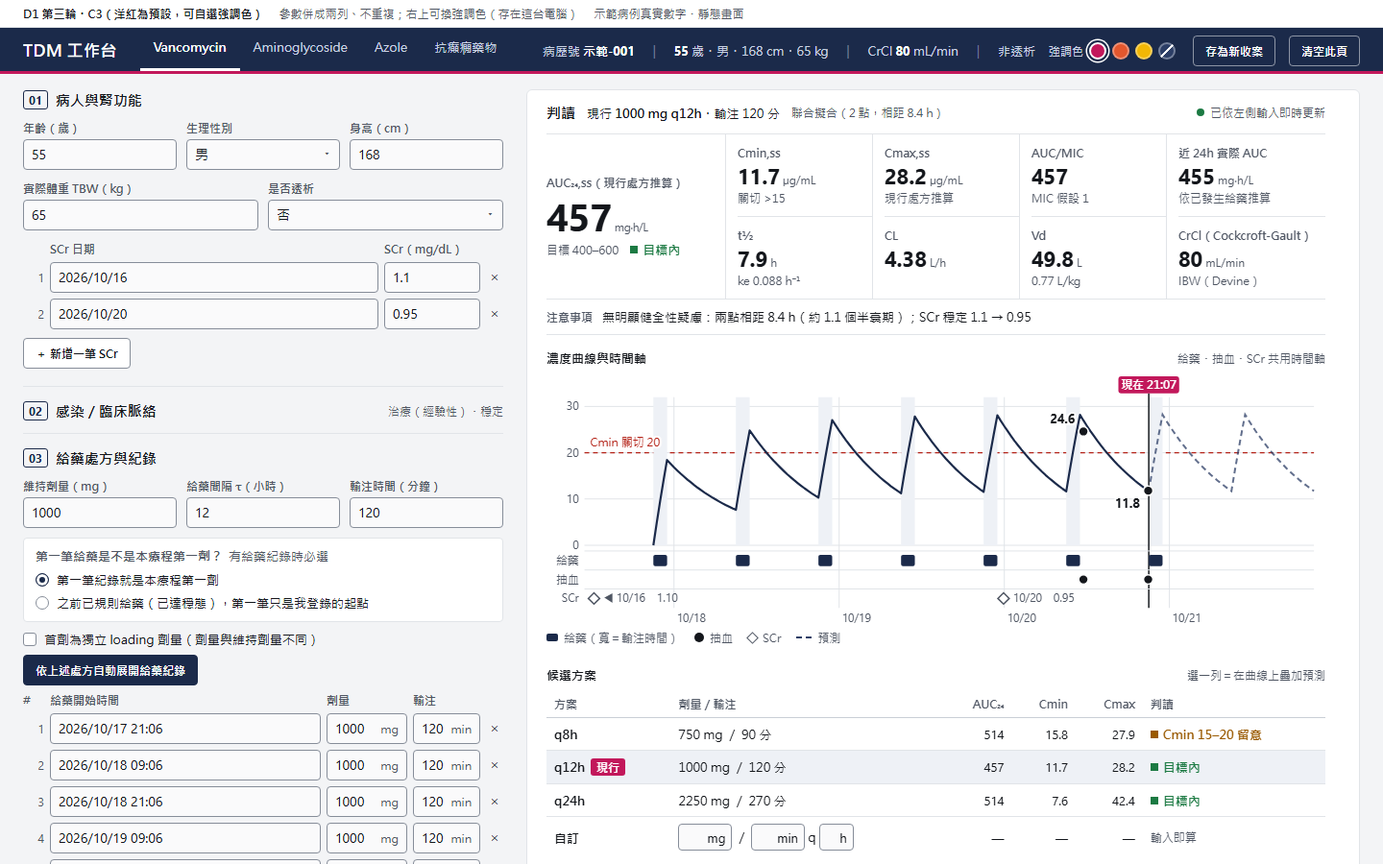
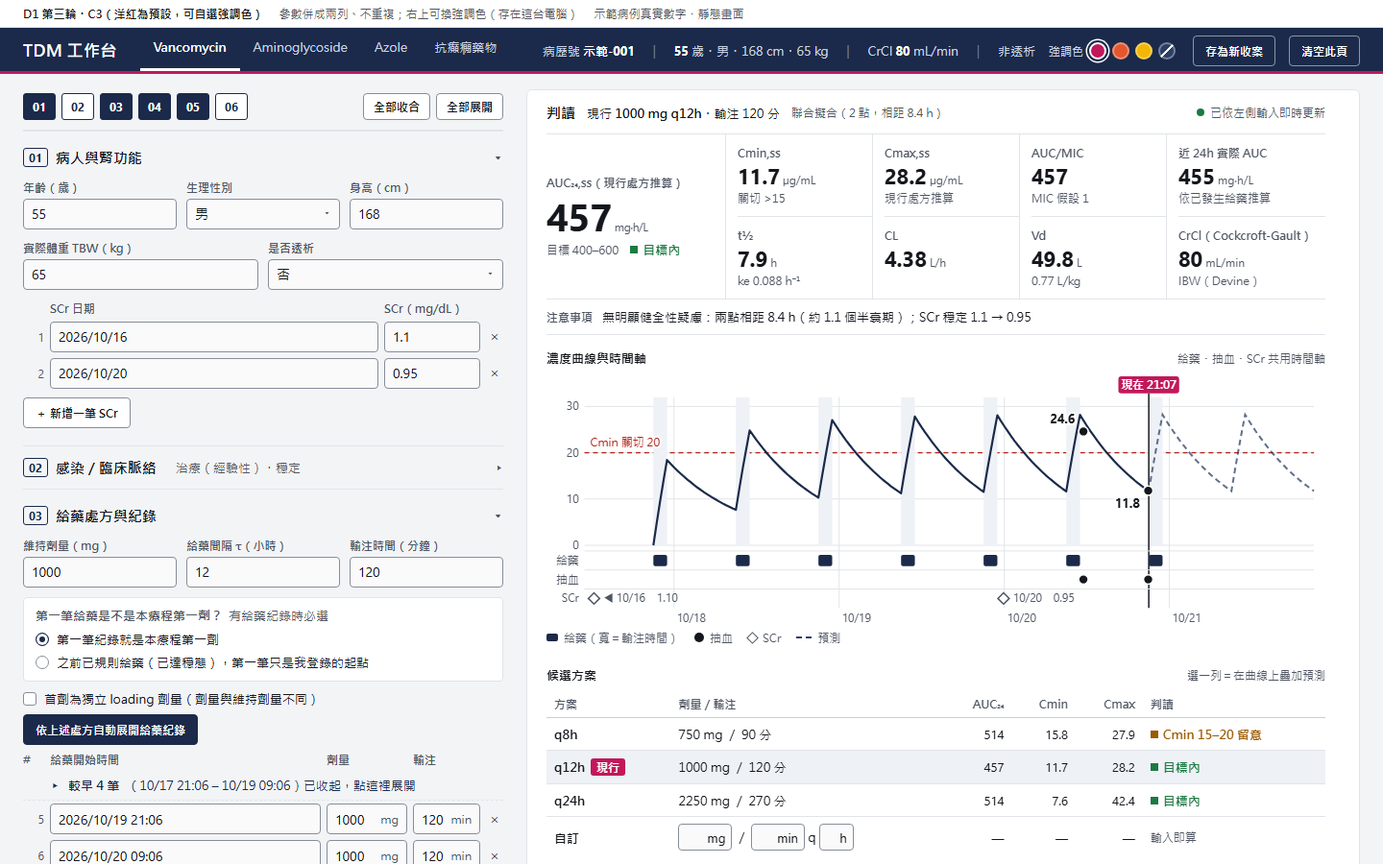
REDESIGN D1 第三輪：C3 左欄可收合（段落摘要、段落列、較早給藥收起）
- 每段收起時標題列顯示摘要；左欄頂端 01-06 跳轉與全部收合／展開
- 給藥紀錄只顯示最近 3 筆，較早的收成一行
- DESIGN.md 補上收合規則與施工對照
- 沒有修改 index.html

diff --git a/docs/direction/C3.html b/docs/direction/C3.html
@@ -217,39 +217,63 @@ p.tx{font-size:13px;margin-bottom:6px}
   .pgrid .key{grid-row:auto;grid-column:1/-1;border-top:0}
   .pgrid .key .v{font-size:34px}
 }
+
+.ws-bar{position:sticky;top:51px;z-index:5;background:var(--bg);display:flex;align-items:center;gap:6px;padding:8px 0 10px;margin-top:-4px;border-bottom:1px solid var(--line)}
+.ws-bar .jump{font-family:var(--font-num);font-size:12px;font-weight:700;min-width:34px;height:28px;border:1.5px solid var(--navy);border-radius:3px;background:#fff;color:var(--navy);cursor:pointer}
+.ws-bar .jump.open{background:var(--navy);color:#fff}
+.ws-bar .sp{flex:1}
+.ws-bar .btn{min-height:28px;padding:3px 10px}
+.ws-sec h2{margin-bottom:0}
+.ws-tg{all:unset;box-sizing:border-box;display:flex;align-items:center;gap:8px;width:100%;cursor:pointer;font-size:15px;font-weight:700;padding:2px 0}
+.ws-tg:focus-visible{outline:2px solid var(--navy);outline-offset:2px}
+.ws-tg .sum{margin-left:12px;font-size:13px;font-weight:400;color:var(--ink-soft);white-space:nowrap;overflow:hidden;text-overflow:ellipsis;flex:1;min-width:0;display:none}
+.ws-tg .chev{margin-left:auto;color:var(--ink-soft);font-size:12px;transition:transform 180ms ease}
+.ws-sec.closed .ws-tg .sum{display:block}
+.ws-sec.closed .ws-tg .chev{transform:rotate(-90deg)}
+.ws-sec.closed .ws-body{display:none}
+.ws-sec.closed{padding:9px 0}
+.ws-body{padding-top:8px}
+.ws-sec.flash{animation:flash 1.2s ease}
+@keyframes flash{0%{background:var(--navy-tint)}100%{background:transparent}}
+.older{display:flex;align-items:center;gap:8px;font-size:13px;color:var(--navy);padding:6px 0 6px 28px;cursor:pointer;border-bottom:1px dashed var(--line)}
+.older b{font-weight:700}
+.dose-old{display:none}
+.show-old .dose-old{display:grid}
+.show-old .older{display:none}
+@media (prefers-reduced-motion:reduce){.ws-tg .chev{transition:none}.ws-sec.flash{animation:none}}
+@media (max-width:640px){.ws-bar{top:0}}
 </style></head><body><div class="cap"><b>D1 第三輪・C3（洋紅為預設，可自選強調色）</b><span>參數併成兩列、不重複；右上可換強調色（存在這台電腦）</span><span>示範病例真實數字・靜態畫面</span></div><header class="top-bar"><h1>TDM 工作台</h1><nav class="tabs" aria-label="藥物模組"><a class="on" href="#">Vancomycin</a><a href="#">Aminoglycoside</a><a href="#">Azole</a><a href="#">抗癲癇藥物</a></nav>
-<div class="id"><span>病歷號 <b class="num">示範-001</b></span><span class="sep">｜</span><span><b class="num">55</b> 歲・男・168 cm・65 kg</span><span class="sep">｜</span><span>CrCl <b class="num">80</b> mL/min</span><span class="sep">｜</span><span>非透析</span><div class="acc-pick" role="group" aria-label="強調色"><span>強調色</span><button type="button" class="" data-v="magenta" style="--sw:#C2185B" title="洋紅" aria-label="強調色：洋紅" aria-pressed="true"></button><button type="button" class="" data-v="vermilion" style="--sw:#E4572E" title="朱紅" aria-label="強調色：朱紅" aria-pressed="false"></button><button type="button" class="" data-v="mustard" style="--sw:#F2B705" title="芥末黃" aria-label="強調色：芥末黃" aria-pressed="false"></button><button type="button" class="none" data-v="none" style="--sw:#C9D2E3" title="不用撞色" aria-label="強調色：不用撞色" aria-pressed="false"></button></div><button class="btn">存為新收案</button><button class="btn">清空此頁</button></div></header><div class="seg" role="group" aria-label="輸入或結果"><button data-v="in" aria-pressed="false">輸入</button><button data-v="out" aria-pressed="true">結果</button></div><main class="app"><div class="left">
-<section class="ws-sec"><h2><span class="idx">01</span>病人與腎功能</h2>
+<div class="id"><span>病歷號 <b class="num">示範-001</b></span><span class="sep">｜</span><span><b class="num">55</b> 歲・男・168 cm・65 kg</span><span class="sep">｜</span><span>CrCl <b class="num">80</b> mL/min</span><span class="sep">｜</span><span>非透析</span><div class="acc-pick" role="group" aria-label="強調色"><span>強調色</span><button type="button" class="" data-v="magenta" style="--sw:#C2185B" title="洋紅" aria-label="強調色：洋紅" aria-pressed="true"></button><button type="button" class="" data-v="vermilion" style="--sw:#E4572E" title="朱紅" aria-label="強調色：朱紅" aria-pressed="false"></button><button type="button" class="" data-v="mustard" style="--sw:#F2B705" title="芥末黃" aria-label="強調色：芥末黃" aria-pressed="false"></button><button type="button" class="none" data-v="none" style="--sw:#C9D2E3" title="不用撞色" aria-label="強調色：不用撞色" aria-pressed="false"></button></div><button class="btn">存為新收案</button><button class="btn">清空此頁</button></div></header><div class="seg" role="group" aria-label="輸入或結果"><button data-v="in" aria-pressed="false">輸入</button><button data-v="out" aria-pressed="true">結果</button></div><main class="app"><div class="left"><div class="ws-bar" role="toolbar" aria-label="段落"><button type="button" class="jump open" data-s="01" title="只展開 01 並跳過去">01</button><button type="button" class="jump" data-s="02" title="只展開 02 並跳過去">02</button><button type="button" class="jump open" data-s="03" title="只展開 03 並跳過去">03</button><button type="button" class="jump open" data-s="04" title="只展開 04 並跳過去">04</button><button type="button" class="jump open" data-s="05" title="只展開 05 並跳過去">05</button><button type="button" class="jump" data-s="06" title="只展開 06 並跳過去">06</button><span class="sp"></span><button type="button" class="btn" data-all="close">全部收合</button><button type="button" class="btn" data-all="open">全部展開</button></div><section class="ws-sec" data-s="01"><h2><button type="button" class="ws-tg" aria-expanded="true"><span class="idx">01</span>病人與腎功能<span class="sum">55 歲・男・168 cm・65 kg・非透析・SCr 0.95（10/20）</span><span class="chev" aria-hidden="true">▾</span></button></h2><div class="ws-body">
   <div class="grid g3"><div class="fld"><label>年齡（歲）</label><div class="inp">55</div></div><div class="fld"><label>生理性別</label><div class="inp sel">男</div></div><div class="fld"><label>身高（cm）</label><div class="inp">168</div></div></div>
   <div class="grid g2"><div class="fld"><label>實際體重 TBW（kg）</label><div class="inp">65</div></div><div class="fld"><label>是否透析</label><div class="inp sel">否</div></div></div>
   <div class="thead s"><span></span><span>SCr 日期</span><span>SCr（mg/dL）</span><span></span></div>
   <div class="row s"><span class="n">1</span><div class="inp">2026/10/16</div><div class="inp">1.1</div><span class="x">×</span></div>
   <div class="row s"><span class="n">2</span><div class="inp">2026/10/20</div><div class="inp">0.95</div><span class="x">×</span></div>
   <div class="btn-row"><button class="btn">＋ 新增一筆 SCr</button></div>
-</section>
-<section class="ws-sec collapsed"><h2><span class="idx">02</span>感染／臨床脈絡<span class="sum">治療（經驗性）・穩定</span></h2></section>
-<section class="ws-sec"><h2><span class="idx">03</span>給藥處方與紀錄</h2>
+</div></section>
+<section class="ws-sec closed" data-s="02"><h2><button type="button" class="ws-tg" aria-expanded="false"><span class="idx">02</span>感染／臨床脈絡<span class="sum">治療（經驗性）・穩定</span><span class="chev" aria-hidden="true">▾</span></button></h2><div class="ws-body"><div class="grid g2"><div class="fld"><label>適應症</label><div class="inp sel">治療（經驗性）</div></div><div class="fld"><label>嚴重度</label><div class="inp sel">穩定</div></div></div>
+<div class="grid g2"><div class="fld"><label>感染部位</label><div class="inp" style="color:var(--ink-soft)">如：菌血症、肺炎…</div></div><div class="fld"><label>菌種／MIC</label><div class="inp" style="color:var(--ink-soft)">如：MRSA</div></div></div></div></section>
+<section class="ws-sec" data-s="03"><h2><button type="button" class="ws-tg" aria-expanded="true"><span class="idx">03</span>給藥處方與紀錄<span class="sum">1000 mg q12h・輸注 120 分・給藥 7 筆（最後 10/20 21:06）</span><span class="chev" aria-hidden="true">▾</span></button></h2><div class="ws-body">
   <div class="grid g3"><div class="fld"><label>維持劑量（mg）</label><div class="inp">1000</div></div><div class="fld"><label>給藥間隔 τ（小時）</label><div class="inp">12</div></div><div class="fld"><label>輸注時間（分鐘）</label><div class="inp">120</div></div></div>
   <div class="radio-grp"><div class="t">第一筆給藥是不是本療程第一劑？<span>有給藥紀錄時必選</span></div>
     <label><i class="on"></i>第一筆紀錄就是本療程第一劑</label><label><i></i>之前已規則給藥（已達穩態），第一筆只是我登錄的起點</label></div>
   <div class="chk" style="margin:6px 0"><i></i>首劑為獨立 loading 劑量（劑量與維持劑量不同）</div>
   <div class="btn-row"><button class="btn primary">依上述處方自動展開給藥紀錄</button></div>
   <div class="thead"><span>#</span><span>給藥開始時間</span><span>劑量</span><span>輸注</span><span></span></div>
-  <div class="row"><span class="n">1</span><div class="inp">2026/10/17 21:06</div><div class="inp">1000<span class="u">mg</span></div><div class="inp">120<span class="u">min</span></div><span class="x">×</span></div><div class="row"><span class="n">2</span><div class="inp">2026/10/18 09:06</div><div class="inp">1000<span class="u">mg</span></div><div class="inp">120<span class="u">min</span></div><span class="x">×</span></div><div class="row"><span class="n">3</span><div class="inp">2026/10/18 21:06</div><div class="inp">1000<span class="u">mg</span></div><div class="inp">120<span class="u">min</span></div><span class="x">×</span></div><div class="row"><span class="n">4</span><div class="inp">2026/10/19 09:06</div><div class="inp">1000<span class="u">mg</span></div><div class="inp">120<span class="u">min</span></div><span class="x">×</span></div><div class="row"><span class="n">5</span><div class="inp">2026/10/19 21:06</div><div class="inp">1000<span class="u">mg</span></div><div class="inp">120<span class="u">min</span></div><span class="x">×</span></div><div class="row"><span class="n">6</span><div class="inp">2026/10/20 09:06</div><div class="inp">1000<span class="u">mg</span></div><div class="inp">120<span class="u">min</span></div><span class="x">×</span></div><div class="row"><span class="n">7</span><div class="inp live">2026/10/20 21:06</div><div class="inp">1000<span class="u">mg</span></div><div class="inp">120<span class="u">min</span></div><span class="x">×</span></div>
-</section>
-<section class="ws-sec"><h2><span class="idx">04</span>血中濃度量測（自由時點）</h2>
+  <div class="row dose-old"><span class="n">1</span><div class="inp">2026/10/17 21:06</div><div class="inp">1000<span class="u">mg</span></div><div class="inp">120<span class="u">min</span></div><span class="x">×</span></div><div class="row dose-old"><span class="n">2</span><div class="inp">2026/10/18 09:06</div><div class="inp">1000<span class="u">mg</span></div><div class="inp">120<span class="u">min</span></div><span class="x">×</span></div><div class="row dose-old"><span class="n">3</span><div class="inp">2026/10/18 21:06</div><div class="inp">1000<span class="u">mg</span></div><div class="inp">120<span class="u">min</span></div><span class="x">×</span></div><div class="row dose-old"><span class="n">4</span><div class="inp">2026/10/19 09:06</div><div class="inp">1000<span class="u">mg</span></div><div class="inp">120<span class="u">min</span></div><span class="x">×</span></div><div class="older" role="button" tabindex="0">▸ <b>較早 4 筆</b>（10/17 21:06 – 10/19 09:06）已收起，點這裡展開</div><div class="row"><span class="n">5</span><div class="inp">2026/10/19 21:06</div><div class="inp">1000<span class="u">mg</span></div><div class="inp">120<span class="u">min</span></div><span class="x">×</span></div><div class="row"><span class="n">6</span><div class="inp">2026/10/20 09:06</div><div class="inp">1000<span class="u">mg</span></div><div class="inp">120<span class="u">min</span></div><span class="x">×</span></div><div class="row"><span class="n">7</span><div class="inp live">2026/10/20 21:06</div><div class="inp">1000<span class="u">mg</span></div><div class="inp">120<span class="u">min</span></div><span class="x">×</span></div>
+</div></section>
+<section class="ws-sec" data-s="04"><h2><button type="button" class="ws-tg" aria-expanded="true"><span class="idx">04</span>血中濃度量測（自由時點）<span class="sum">2 筆：24.6（10/20 12:36）、11.8（10/20 21:01）</span><span class="chev" aria-hidden="true">▾</span></button></h2><div class="ws-body">
   <div class="thead s"><span>#</span><span>抽血時間</span><span>濃度</span><span></span></div>
   <div class="row s"><span class="n">1</span><div class="inp">2026/10/20 12:36</div><div class="inp">24.6<span class="u">µg/mL</span></div><span class="x">×</span></div>
   <div class="note">第 6 劑輸注結束後 1.5 小時（peak 附近）</div>
   <div class="row s"><span class="n">2</span><div class="inp">2026/10/20 21:01</div><div class="inp">11.8<span class="u">µg/mL</span></div><span class="x">×</span></div>
   <div class="note">第 7 劑給藥前 5 分鐘（trough）</div>
-</section>
-<section class="ws-sec"><h2><span class="idx">05</span>目標與情境設定</h2>
+</div></section>
+<section class="ws-sec" data-s="05"><h2><button type="button" class="ws-tg" aria-expanded="true"><span class="idx">05</span>目標與情境設定<span class="sum">MIC 1・目標 AUC₂₄ 500・候選 q8h／q12h／q24h</span><span class="chev" aria-hidden="true">▾</span></button></h2><div class="ws-body">
   <div class="grid g2"><div class="fld"><label>MIC 假設（µg/mL）</label><div class="inp">1</div></div><div class="fld"><label>目標 AUC₂₄（mg·h/L）</label><div class="inp">500</div></div></div>
   <div class="fld"><label>候選給藥間隔</label><div class="btn-row" style="margin:2px 0 0"><span class="chk"><i class="on"></i>q8h</span><span class="chk"><i class="on"></i>q12h</span><span class="chk"><i class="on"></i>q24h</span></div></div>
-</section>
-<section class="ws-sec collapsed"><h2><span class="idx">06</span>併用藥物與其他備註<span class="sum">未填</span></h2></section>
-</div><div class="right">
+</div></section>
+<section class="ws-sec closed" data-s="06"><h2><button type="button" class="ws-tg" aria-expanded="false"><span class="idx">06</span>併用藥物與其他備註<span class="sum">未填</span><span class="chev" aria-hidden="true">▾</span></button></h2><div class="ws-body"><div class="fld"><label>腎毒性／交互作用相關併用藥物</label><div class="inp" style="height:44px;color:var(--ink-soft)">如：piperacillin-tazobactam、NSAID…</div></div></div></section></div><div class="right">
 
 <div class="rp"><div class="rp-in">
   <div class="rp-head"><h3>判讀</h3><span class="rx">現行 <b>1000 mg q12h</b>・輸注 120 分</span><span class="fit">聯合擬合（2 點，相距 8.4 h）</span>
@@ -445,5 +469,23 @@ var r=q.match(/rs=(\d+)/); if(r){document.querySelector('.rp').scrollTop=+r[1];}
   var m=location.search.match(/accent=(\w+)/); if(m) saved=m[1];
   apply(saved);
   document.querySelectorAll('.acc-pick button').forEach(function(b){ b.addEventListener('click',function(){ apply(b.dataset.v); try{localStorage.setItem(KEY,b.dataset.v);}catch(e){} }); });
+})();
+</script>
+<script>
+(function(){
+  function setOpen(sec, open){ sec.classList.toggle('closed', !open); sec.querySelector('.ws-tg').setAttribute('aria-expanded', open?'true':'false');
+    var j=document.querySelector('.ws-bar .jump[data-s="'+sec.dataset.s+'"]'); if(j) j.classList.toggle('open', open); }
+  var secs=[].slice.call(document.querySelectorAll('.ws-sec[data-s]'));
+  secs.forEach(function(s){ s.querySelector('.ws-tg').addEventListener('click', function(){ setOpen(s, s.classList.contains('closed')); }); });
+  document.querySelectorAll('.ws-bar .jump').forEach(function(b){ b.addEventListener('click', function(){
+    secs.forEach(function(s){ setOpen(s, s.dataset.s===b.dataset.s); });
+    var t=document.querySelector('.ws-sec[data-s="'+b.dataset.s+'"]'); t.scrollIntoView({block:'start'}); window.scrollBy(0,-100);
+    t.classList.remove('flash'); void t.offsetWidth; t.classList.add('flash'); }); });
+  document.querySelector('.ws-bar [data-all="close"]').addEventListener('click', function(){ secs.forEach(function(s){ setOpen(s,false); }); });
+  document.querySelector('.ws-bar [data-all="open"]').addEventListener('click', function(){ secs.forEach(function(s){ setOpen(s,true); }); });
+  var o=document.querySelector('.older'); if(o) o.addEventListener('click', function(){ o.parentNode.classList.add('show-old'); });
+  // 預覽用：?open=04 只展開 04；?open=none 全部收合
+  var m=location.search.match(/open=([\w,]+)/);
+  if(m){ var keep=m[1]==='none'?[]:m[1].split(','); secs.forEach(function(s){ setOpen(s, keep.indexOf(s.dataset.s)>-1); }); }
 })();
 </script></body></html>

diff --git a/docs/direction/src/boards3_collapse.py b/docs/direction/src/boards3_collapse.py
@@ -1,0 +1,95 @@
+# -*- coding: utf-8 -*-
+# C3 左欄收合（Brandon 2026-10-21：改某幾個數字時不用整頁捲動）
+#   1. 每段可收合，收起來時標題列顯示摘要（不用打開就知道填了什麼）
+#   2. 左欄頂端固定一條段落列：01–06 跳轉（只展開該段）＋全部收合／全部展開
+#   3. 給藥紀錄只顯示最近 3 筆，較早的收成一行
+import re, os, sys
+sys.path.insert(0, os.path.dirname(os.path.abspath(__file__)))
+import boards2 as B
+
+SUMS = {
+    '01': '55 歲・男・168 cm・65 kg・非透析・SCr 0.95（10/20）',
+    '02': '治療（經驗性）・穩定',
+    '03': '1000 mg q12h・輸注 120 分・給藥 7 筆（最後 10/20 21:06）',
+    '04': '2 筆：24.6（10/20 12:36）、11.8（10/20 21:01）',
+    '05': 'MIC 1・目標 AUC₂₄ 500・候選 q8h／q12h／q24h',
+    '06': '未填',
+}
+BODY_02 = """<div class="grid g2"><div class="fld"><label>適應症</label><div class="inp sel">治療（經驗性）</div></div><div class="fld"><label>嚴重度</label><div class="inp sel">穩定</div></div></div>
+<div class="grid g2"><div class="fld"><label>感染部位</label><div class="inp" style="color:var(--ink-soft)">如：菌血症、肺炎…</div></div><div class="fld"><label>菌種／MIC</label><div class="inp" style="color:var(--ink-soft)">如：MRSA</div></div></div>"""
+BODY_06 = """<div class="fld"><label>腎毒性／交互作用相關併用藥物</label><div class="inp" style="height:44px;color:var(--ink-soft)">如：piperacillin-tazobactam、NSAID…</div></div>"""
+
+CSS = r"""
+.ws-bar{position:sticky;top:51px;z-index:5;background:var(--bg);display:flex;align-items:center;gap:6px;padding:8px 0 10px;margin-top:-4px;border-bottom:1px solid var(--line)}
+.ws-bar .jump{font-family:var(--font-num);font-size:12px;font-weight:700;min-width:34px;height:28px;border:1.5px solid var(--navy);border-radius:3px;background:#fff;color:var(--navy);cursor:pointer}
+.ws-bar .jump.open{background:var(--navy);color:#fff}
+.ws-bar .sp{flex:1}
+.ws-bar .btn{min-height:28px;padding:3px 10px}
+.ws-sec h2{margin-bottom:0}
+.ws-tg{all:unset;box-sizing:border-box;display:flex;align-items:center;gap:8px;width:100%;cursor:pointer;font-size:15px;font-weight:700;padding:2px 0}
+.ws-tg:focus-visible{outline:2px solid var(--navy);outline-offset:2px}
+.ws-tg .sum{margin-left:12px;font-size:13px;font-weight:400;color:var(--ink-soft);white-space:nowrap;overflow:hidden;text-overflow:ellipsis;flex:1;min-width:0;display:none}
+.ws-tg .chev{margin-left:auto;color:var(--ink-soft);font-size:12px;transition:transform 180ms ease}
+.ws-sec.closed .ws-tg .sum{display:block}
+.ws-sec.closed .ws-tg .chev{transform:rotate(-90deg)}
+.ws-sec.closed .ws-body{display:none}
+.ws-sec.closed{padding:9px 0}
+.ws-body{padding-top:8px}
+.ws-sec.flash{animation:flash 1.2s ease}
+@keyframes flash{0%{background:var(--navy-tint)}100%{background:transparent}}
+.older{display:flex;align-items:center;gap:8px;font-size:13px;color:var(--navy);padding:6px 0 6px 28px;cursor:pointer;border-bottom:1px dashed var(--line)}
+.older b{font-weight:700}
+.dose-old{display:none}
+.show-old .dose-old{display:grid}
+.show-old .older{display:none}
+@media (prefers-reduced-motion:reduce){.ws-tg .chev{transition:none}.ws-sec.flash{animation:none}}
+@media (max-width:640px){.ws-bar{top:0}}
+"""
+
+JS = r"""
+<script>
+(function(){
+  function setOpen(sec, open){ sec.classList.toggle('closed', !open); sec.querySelector('.ws-tg').setAttribute('aria-expanded', open?'true':'false');
+    var j=document.querySelector('.ws-bar .jump[data-s="'+sec.dataset.s+'"]'); if(j) j.classList.toggle('open', open); }
+  var secs=[].slice.call(document.querySelectorAll('.ws-sec[data-s]'));
+  secs.forEach(function(s){ s.querySelector('.ws-tg').addEventListener('click', function(){ setOpen(s, s.classList.contains('closed')); }); });
+  document.querySelectorAll('.ws-bar .jump').forEach(function(b){ b.addEventListener('click', function(){
+    secs.forEach(function(s){ setOpen(s, s.dataset.s===b.dataset.s); });
+    var t=document.querySelector('.ws-sec[data-s="'+b.dataset.s+'"]'); t.scrollIntoView({block:'start'}); window.scrollBy(0,-100);
+    t.classList.remove('flash'); void t.offsetWidth; t.classList.add('flash'); }); });
+  document.querySelector('.ws-bar [data-all="close"]').addEventListener('click', function(){ secs.forEach(function(s){ setOpen(s,false); }); });
+  document.querySelector('.ws-bar [data-all="open"]').addEventListener('click', function(){ secs.forEach(function(s){ setOpen(s,true); }); });
+  var o=document.querySelector('.older'); if(o) o.addEventListener('click', function(){ o.parentNode.classList.add('show-old'); });
+  // 預覽用：?open=04 只展開 04；?open=none 全部收合
+  var m=location.search.match(/open=([\w,]+)/);
+  if(m){ var keep=m[1]==='none'?[]:m[1].split(','); secs.forEach(function(s){ setOpen(s, keep.indexOf(s.dataset.s)>-1); }); }
+})();
+</script>"""
+
+def worksheet():
+    html = B.worksheet()
+    # 給藥紀錄：前 4 筆收起來
+    rows = re.findall(r'<div class="row"><span class="n">\d</span>.*?</div>\n?', html)
+    # B.worksheet 的給藥列是連在一起的字串；改成較早 4 筆加 class
+    def older(mm):
+        n = int(mm.group(1))
+        return '<div class="row dose-old"><span class="n">%d</span>' % n if n <= 4 else mm.group(0)
+    html = re.sub(r'<div class="row"><span class="n">(\d)</span>', older, html)
+    first_new = html.index('<div class="row"><span class="n">5</span>')
+    html = html[:first_new] + '<div class="older" role="button" tabindex="0">▸ <b>較早 4 筆</b>（10/17 21:06 – 10/19 09:06）已收起，點這裡展開</div>' + html[first_new:]
+    # 每段改成可收合：標題變按鈕＋摘要＋箭頭，內容包進 ws-body
+    out = []
+    for m in re.finditer(r'<section class="ws-sec( collapsed)?"><h2><span class="idx">(\d\d)</span>([^<]+)(?:<span class="sum">[^<]*</span>)?</h2>(.*?)</section>', html, re.S):
+        closed, num, title, body = m.group(1), m.group(2), m.group(3), m.group(4)
+        if num == '02': body = BODY_02
+        if num == '06': body = BODY_06
+        cls = 'ws-sec' + (' closed' if closed else '')
+        out.append('<section class="%s" data-s="%s"><h2><button type="button" class="ws-tg" aria-expanded="%s"><span class="idx">%s</span>%s'
+                   '<span class="sum">%s</span><span class="chev" aria-hidden="true">▾</span></button></h2><div class="ws-body">%s</div></section>' % (
+                       cls, num, 'false' if closed else 'true', num, title, SUMS[num], body))
+    assert len(out) == 6, len(out)
+    bar = ('<div class="ws-bar" role="toolbar" aria-label="段落">' + ''.join(
+        '<button type="button" class="jump%s" data-s="%s" title="只展開 %s 並跳過去">%s</button>' % ('' if n in ('02', '06') else ' open', n, n, n)
+        for n in ['01', '02', '03', '04', '05', '06']) +
+        '<span class="sp"></span><button type="button" class="btn" data-all="close">全部收合</button><button type="button" class="btn" data-all="open">全部展開</button></div>')
+    return bar + '\n'.join(out)

diff --git a/docs/direction/src/boards3.py b/docs/direction/src/boards3.py
@@ -100,6 +100,13 @@ def page():
     html = html.replace('數字優先、拿掉圖尺；右邊固定在畫面上，往下捲看細節', '參數併成兩列、不重複；右上可換強調色（存在這台電腦）')
     html = html.replace('<title>方向板 C2（洋紅）</title>', '<title>方向板 C3</title>')
     html = html.replace('</body>', PICKER_JS + '</body>', 1)
+    # 左欄：可收合段落＋段落列＋較早給藥收起（Brandon 2026-10-21）
+    import boards3_collapse as CO
+    old_ws = B.worksheet()
+    assert html.count(old_ws) == 1
+    html = html.replace(old_ws, CO.worksheet(), 1)
+    html = html.replace('</style>', CO.CSS + '</style>', 1)
+    html = html.replace('</body>', CO.JS + '</body>', 1)
     return html
 
 if __name__ == '__main__':

diff --git a/docs/direction/src/shoot3.py b/docs/direction/src/shoot3.py
@@ -8,6 +8,8 @@ edge(BASE + 'C3.html', 1920, 940, os.path.join(SH, 'C3_24in_fold.png'))
 edge(BASE + 'C3.html?accent=vermilion', 1920, 940, os.path.join(SH, 'C3_24in_vermilion.png'))
 edge(BASE + 'C3.html?accent=none', 1920, 940, os.path.join(SH, 'C3_24in_none.png'))
 edge(BASE + 'C3.html', 1440, 900, os.path.join(SH, 'C3_1440_fold.png'))
+edge(BASE + 'C3.html?open=none', 1920, 940, os.path.join(SH, 'C3_24in_allcollapsed.png'))
+edge(BASE + 'C3.html?open=03', 1920, 940, os.path.join(SH, 'C3_24in_only03.png'))
 mobile('C3.html', 844, False, os.path.join(SH, 'C3_mobile_fold.png'))
 mobile('C3.html', 3200, True, os.path.join(SH, 'C3_mobile_full.png'))
 for f in sorted(os.listdir(SH)):

diff --git a/DESIGN.md b/DESIGN.md
@@ -202,7 +202,9 @@ components:
   4. 濃度曲線與時間軸、候選方案表（含自訂列）。≥1600 px 時兩者並排（約 1.15 : 1），≤1599 px 上下排。
   5. 監測與下次抽血（24 吋上在首屏）。
   6. 往下捲：AI Prompt（預設收合）。
-- **左邊 6 個段落**（編號 01 到 06 與順序不變）：細線分隔、小標題，不包圓角卡片；收合的段落在標題列顯示摘要（例：「治療（經驗性）・穩定」）。
+- **左邊 6 個段落**（編號 01 到 06 與順序不變）：細線分隔、小標題，不包圓角卡片。**每段都可收合**，收起來時標題列顯示摘要（例：「01　55 歲・男・168 cm・65 kg・非透析・SCr 0.95（10/20）」），不打開就知道填了什麼。
+- **左欄頂端段落列**（固定在頂列下方）：01–06 六個按鈕（點了只展開該段並跳過去、短暫標亮；展開中的段落按鈕是實心）＋「全部收合」「全部展開」。目的是只改某幾個數字時不用整頁捲動；在 24 吋上只展開一段時，整頁一屏看完。
+- **給藥紀錄只顯示最近 3 筆**，較早的收成一行「較早 N 筆（起訖時間）已收起，點這裡展開」。時間軸上點到較早的劑次時自動展開。
 - **欄位列靠上對齊**；間距用 4 為底的刻度：4／8／12／16／24／32。
 - **手機（次要）**：頂端「輸入／結果」切換，底部固定一條結論摘要（AUC₂₄ 與狀態），參數區改兩欄。
 
@@ -258,4 +260,6 @@ components:
 | 右欄隨頁面捲動 | 右欄外層 sticky、面板自己捲動 | 1920×940 首屏要看到判讀、曲線、候選方案 |
 | 10 格數字磚 | 兩列參數區，AUC 大字跨兩列 | 只改 CSS，render 輸出不變 |
 | 沒有強調色設定 | 頂列四色塊，`tdm_ui_accent` | 新元素，id 用 `tdm` 前綴 |
+| 卡片收合（`initCollapsibleCards`，標題列無摘要） | 段落收合＋收起時顯示摘要＋左欄頂端段落列 | R7：改寫收合功能那一包單獨驗收；摘要是純顯示，讀欄位值，不改計算 |
+| 給藥紀錄全部列出 | 只顯示最近 3 筆，較早的收成一行 | 純顯示；列仍在 DOM 裡，`readDoseRows` 不受影響 |
 | 字級 9.5–19 px 零散 | 12／13／14／15／17／22／40 | 全站最小 12 |

diff --git a/docs/REDESIGN_PROGRESS_v1.md b/docs/REDESIGN_PROGRESS_v1.md
@@ -71,6 +71,7 @@
 - Brandon 選洋紅（C2c）為預設，但要讓使用者自己換 → 頂列四色塊（洋紅、朱紅、芥末黃、不用撞色），存 `tdm_ui_accent`（符合 R10 的 `tdm_ui_` 前綴）。洋紅在深藍頂列上只有 2.4:1，所以洋紅與「不用撞色」時分頁底線改白色。
 - 「完整參數一行一個太浪費」→ 10 個參數併進上方兩列（AUC₂₄ 大字跨兩列），拿掉重複整段。這剛好對應工具既有 `paramGrid` 的 10 格，D2 只要用 CSS 排版，不用改 render。
 - DESIGN.md 全面改寫成 C3 的系統（取代 D0 版本），待核可；impeccable context 讀得到、沒有格式警告。
+- Brandon 問左邊能不能收合 → C3 加上：段落收合＋收起時顯示摘要、左欄頂端段落列（01–06 跳轉、全部收合／展開）、給藥紀錄只顯示最近 3 筆。在一般瀏覽器測過點擊行為（跳轉、全部收合／展開、單段切換與 aria-expanded、展開較早劑次、強調色存檔）。實作時屬 R7（改寫 `initCollapsibleCards`），要單獨一包驗收。
 
 ### D1 第二輪（2026-10-21）
 - Brandon 回饋：(1) 目標帶尺等「重講數字的圖」沒用，藥師看數字就知道（已存成記憶 no-redundant-visual-aids）；(2) 綠色配色 AI 味重，要黑白灰＋深藍＋大膽撞色、優雅有質感；(3) 右邊要固定在畫面上，不捲動就看到最重要的資訊、左邊輸入時即時看到變化，細節往下捲。
